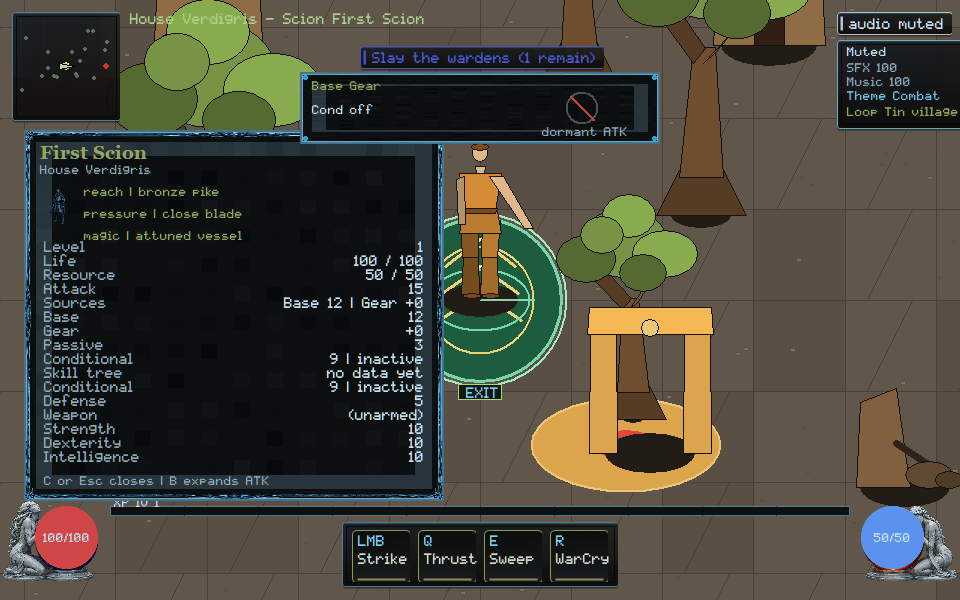
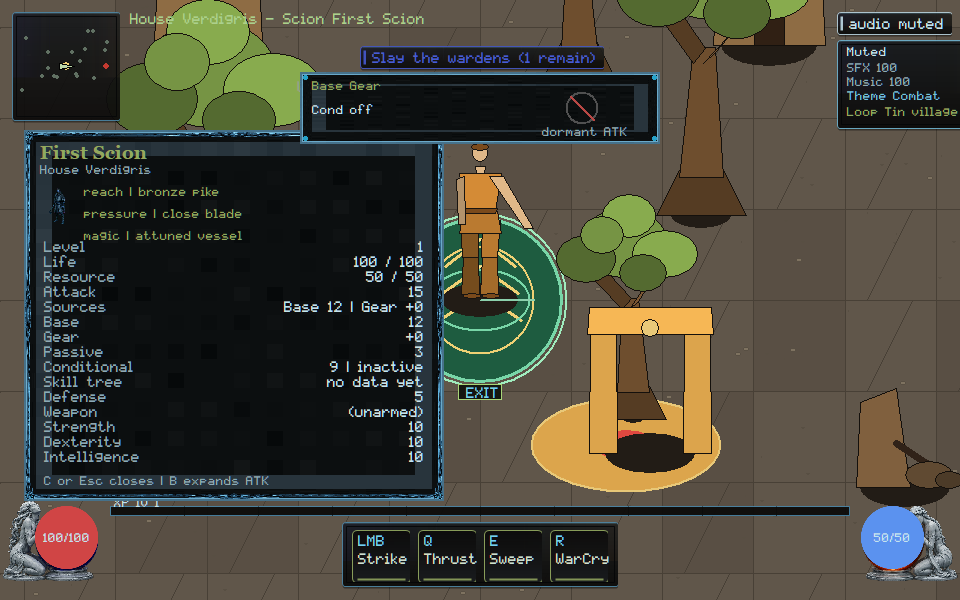
native: paint Conditional once on the expanded sheet so a duplicate row cannot certify

Changed region(s): [[0.0312, 0.42, 0.1562, 0.75], [0.2812, 0.42, 0.4375, 0.75]]

diff --git a/native/client/main.cpp b/native/client/main.cpp
@@ -5848,8 +5848,15 @@ void paint_character_pane(ClientState& state, HDC dc, const RECT& bounds,
                  {"src gear", (src.gear >= 0 ? "+" : "") + std::to_string(src.gear)},
                  {"src passive", std::to_string(src.passive)},
                  {"src cond", dormant}});
+    for (auto it = rows.begin(); it != rows.end();) {
+      if (it->label == "Cond")
+        it = rows.erase(it);
+      else
+        ++it;
+    }
   }
   int y = top + header_h + portrait_h + stack_gap;
+  int owner_cond = 0;
   SelectObject(dc, skin::font_body());
   auto owner_stat_name = [](const std::string& label) -> std::string {
     if (label == "src base") return "Base";
@@ -5883,8 +5890,11 @@ void paint_character_pane(ClientState& state, HDC dc, const RECT& bounds,
                   "char:" + row.label + ":" + row.value});
     if (row.label == "ATK src")
       rl.push_back({render::Op::Hud, 0.0, 0.0, 0.0, 0, "char:src-owner"});
+    if (shown == "Conditional") owner_cond += 1;
     y += row_h;
   }
+  if (!verdigris::client::ui::duplicate_owner_conditional_fails_review(owner_cond))
+    rl.push_back({render::Op::Hud, 0.0, 0.0, 0.0, owner_cond, "char:cond-once"});
   if (src.expanded)
     rl.push_back({render::Op::Hud, 0.0, 0.0, 0.0, 0, "stat:owner-labels"});
   rl.push_back({render::Op::Hud, 0.0, 0.0, 0.0, attack_total,
@@ -16749,6 +16759,26 @@ int scenario_stat_explain() {
       owner_labels = true;
   scenario_check(owner_labels,
                  "stat-explain: expanded sources paint Base/Gear, not src jargon");
+  int owner_cond = 0;
+  bool compact_cond = false;
+  for (const auto& item : state.render_list) {
+    if (item.op != render::Op::Hud) continue;
+    if (item.label.rfind("char:Cond:", 0) == 0) {
+      compact_cond = true;
+      owner_cond += 1;
+    }
+    if (item.label.rfind("char:src cond:", 0) == 0) owner_cond += 1;
+  }
+  scenario_check(
+      verdigris::client::ui::duplicate_owner_conditional_fails_review(2),
+      "stat-explain: two Conditional rows is the anti-pattern");
+  scenario_check(
+      !verdigris::client::ui::duplicate_owner_conditional_fails_review(owner_cond),
+      "stat-explain: expanded sheet paints Conditional once");
+  scenario_check(!compact_cond,
+                 "stat-explain: expanded sheet drops the compact Conditional row");
+  scenario_check(render_list_has(state, render::Op::Hud, "char:cond-once"),
+                 "stat-explain: live HUD names a single Conditional");
 
   const std::string dir = art_wave_capture_dir();
   if (dir.empty()) {

diff --git a/native/client/ui/add-readable-stat-explanations.hpp b/native/client/ui/add-readable-stat-explanations.hpp
@@ -31,7 +31,8 @@ inline const char* conditional_label(const StatSources& src) {
 }
 
 inline int extra_source_rows(const StatSources& src) {
-  return src.expanded ? 4 : 0;
+  // Four breakdown rows replace the compact Conditional line.
+  return src.expanded ? 3 : 0;
 }
 
 inline const char* owner_base_gear_label() { return "Base Gear"; }
@@ -39,6 +40,10 @@ inline const char* owner_cond_off_label() { return "Cond off"; }
 
 inline bool compact_atk_src_jargon_fails_review(bool lowercase_base_gear) {
   return lowercase_base_gear;
+}
+
+inline bool duplicate_owner_conditional_fails_review(int owner_conditional_rows) {
+  return owner_conditional_rows > 1;
 }
 
 inline bool character_covers_minimap_fails_review(bool overlap) {

diff --git a/docs/execution/CROSSWALK.md b/docs/execution/CROSSWALK.md
@@ -36,7 +36,7 @@ Cursor evidence notes.
 | VG-UI-001 | extend | native Escape stack (`pane-stack`); owner Stack 2 / Escape closes; absent tree hides seats; invented origin cannot pass; WASD cannot overlay the open tree; C or Esc closes stays in the sheet slot |
 | VG-UI-002 | extend | TASK-0171 INTEGRATED, 0184 BRIDGE_PREP; `pack-drag`; reject cannot lose/duplicate/silent-equip; pack cells wrap Ember-edged axe; Pack place stays off WASD/LIFE; compare hint uses ASCII `|`; gear footer stays inside the pane |
 | VG-UI-003 | extend | paper-doll + ack-only HUD (`equipment`); pending compare cannot gold-frame as equipped; compare plate stays off gear DEF/LVL; Ack only stays off WASD/LIFE; compare hint uses ASCII `|`; `progression-surface` owner Skill tree / No data yet (TASK folder cannot certify) |
-| VG-UI-004 | extend | TASK-0156, 0159 INTEGRATED; `stat-explain` expandable ATK; dormant cannot fold into Attack; compact Sources uses Base/Gear; lowercase base/gear cannot certify; WASD stays off the C-key sheet; close hint stays in the slot |
+| VG-UI-004 | extend | TASK-0156, 0159 INTEGRATED; `stat-explain` expandable ATK; dormant cannot fold into Attack; compact Sources uses Base/Gear; lowercase base/gear cannot certify; expanded sheet paints Conditional once; a duplicate Conditional cannot certify; WASD stays off the C-key sheet; close hint stays in the slot |
 | VG-UI-005 | extend | TASK-0076 INTEGRATED; 0178/0192/0203 Owner Demo; `route-map` zoom/opacity cannot reveal off-snapshot targets |
 | VG-UI-006 | extend | TASK-0145/0177 + 0190/0197/0201 — **do not duplicate** |
 | VG-UI-007 | extend | TASK-0159 INTEGRATED, 0118 READY, 0207; `hud-pane-readability` at 960/1366/3440 + tree/character keep-out + `hud-scale-floor` + live window; TASK-0159 folder capture cannot certify; clipped C or Esc closes cannot certify; clipped I or Esc closes gear footer cannot certify; clipped DEF/LVL cannot certify; VG-UI-006 Owner Demo not duplicated |
@@ -358,10 +358,11 @@ VG-UI-004: `stat-explain` — expanded ATK names base/gear/passive/cond on
 HUD ops. Compact Sources paints Base N | Gear signed (Pixelmix cannot
 paint a middle-dot). Owner strip paints Base Gear / Cond off. Owner paint
 uses Base/Gear, not `src` jargon. Lowercase base/gear cannot certify.
-Slice builds on the sheet are role | gear chips; tactics stay on HUD ops.
-A dormant conditional cannot fold into Attack. Core STAT stays Kimi. WASD
-stays off the C-key sheet. The sheet sits below the minimap and above
-Life. The close hint stays in the slot. Scenario
+Expanded sheet paints Conditional once; a duplicate Conditional cannot
+certify. Slice builds on the sheet are role | gear chips; tactics stay on
+HUD ops. A dormant conditional cannot fold into Attack. Core STAT stays
+Kimi. WASD stays off the C-key sheet. The sheet sits below the minimap
+and above Life. The close hint stays in the slot. Scenario
 `stat-explain`. Evidence
 `docs/execution/evidence/VG-UI-004.json`.
 VG-UI-002: `pack-drag` — reject cannot lose, duplicate, or silently equip.

diff --git a/docs/execution/CROSSWALK_REGISTRY.md b/docs/execution/CROSSWALK_REGISTRY.md
@@ -138,7 +138,7 @@ not implemented here.
 | VG-UI-001 | G1 | extend | pane-stack native Escape; absent tree hides seats; invented origin cannot prove; WASD keep-out for tree and character; close hint stays in the sheet slot |
 | VG-UI-002 | G2 | extend | pack-drag occupancy; reject cannot lose/duplicate/silent-equip; period-clipped pack name cannot certify; Pack place stays off WASD/LIFE; sim inventory-move stays Kimi |
 | VG-UI-003 | G2 | extend | equipment ack-only; compare plate left of gear stats; Ack only stays off WASD/LIFE; compare hint ASCII bar; progression-surface Skill tree / No data yet; absent tree pane hides seats; WASD keep-out |
-| VG-UI-004 | G2 | extend | stat-explain owner Base/Gear labels; compact Sources uses Base/Gear; lowercase cannot certify; dormant cannot fold into Attack; WASD off C-key sheet; close hint stays in the slot |
+| VG-UI-004 | G2 | extend | stat-explain owner Base/Gear labels; compact Sources uses Base/Gear; lowercase cannot certify; dormant cannot fold into Attack; expanded sheet paints Conditional once; a duplicate Conditional cannot certify; WASD off C-key sheet; close hint stays in the slot |
 | VG-UI-005 | G3 | extend | route-map zoom/opacity; off-snapshot blip cannot pass; Owner Demo journeys not reimplemented |
 | VG-UI-006 | G2 | extend | Owner Demo — do not duplicate |
 | VG-UI-007 | G3 | extend | hud-pane-readability 960/1366/3440 + tree/character keep-out; sheet below map above Life; close hint pinned; gear footer pinned; DEF/LVL inside pane; not VG-UI-006; TASK-0159 folder cannot certify |

diff --git a/orchestration/CURSOR_KIMI_LANES.md b/orchestration/CURSOR_KIMI_LANES.md
@@ -991,3 +991,13 @@ Please move off that branch before taking a new native path.
 - **Stay off** `native/client/main.cpp` and `docs/execution/**`. SEC/CORE
   remain yours. GOV-002 still unstamped.
 
+## Cursor reply (2026-09-06, Expanded sheet paints Conditional once)
+
+- **Lease:** `main.cpp` still **ACTIVE**. `remote_session.cpp` stays
+  **RELEASED**. Do not re-spec TASK-0108 core/wire (`3b929637`).
+- **Landed this push:** VG-UI-004/001/007 — expanded sheet paints
+  Conditional once; a duplicate Conditional cannot certify. STAT algebra
+  stays yours. Captures viewed. Not Owner Demo.
+- **Stay off** `native/client/main.cpp` and `docs/execution/**`. SEC/CORE
+  remain yours. GOV-002 still unstamped.
+

diff --git a/docs/rebuild/HANDOFF.md b/docs/rebuild/HANDOFF.md
@@ -1,5 +1,14 @@
 # Native reconstitution handoff
 
+## 2026-09-06 — Expanded sheet paints Conditional once (Cursor)
+
+- VG-UI-004 / VG-UI-001 / VG-UI-007: the expanded C-key sheet paints
+  Conditional once. Compact Cond plus src cond as a second Conditional
+  cannot certify. Compact Sources Base | Gear, dormant ATK exclusion, and
+  C or Esc closes stay unchanged. Core STAT algebra stays Kimi.
+- Scenario `stat-explain` PASS. Capture viewed. Not Owner Demo. Not
+  TASK-0108.
+
 ## 2026-09-06 — Pack place off WASD and LIFE (Cursor)
 
 - VG-UI-002 / VG-UI-003 / VG-UI-007: Pack place and Ack only park below
